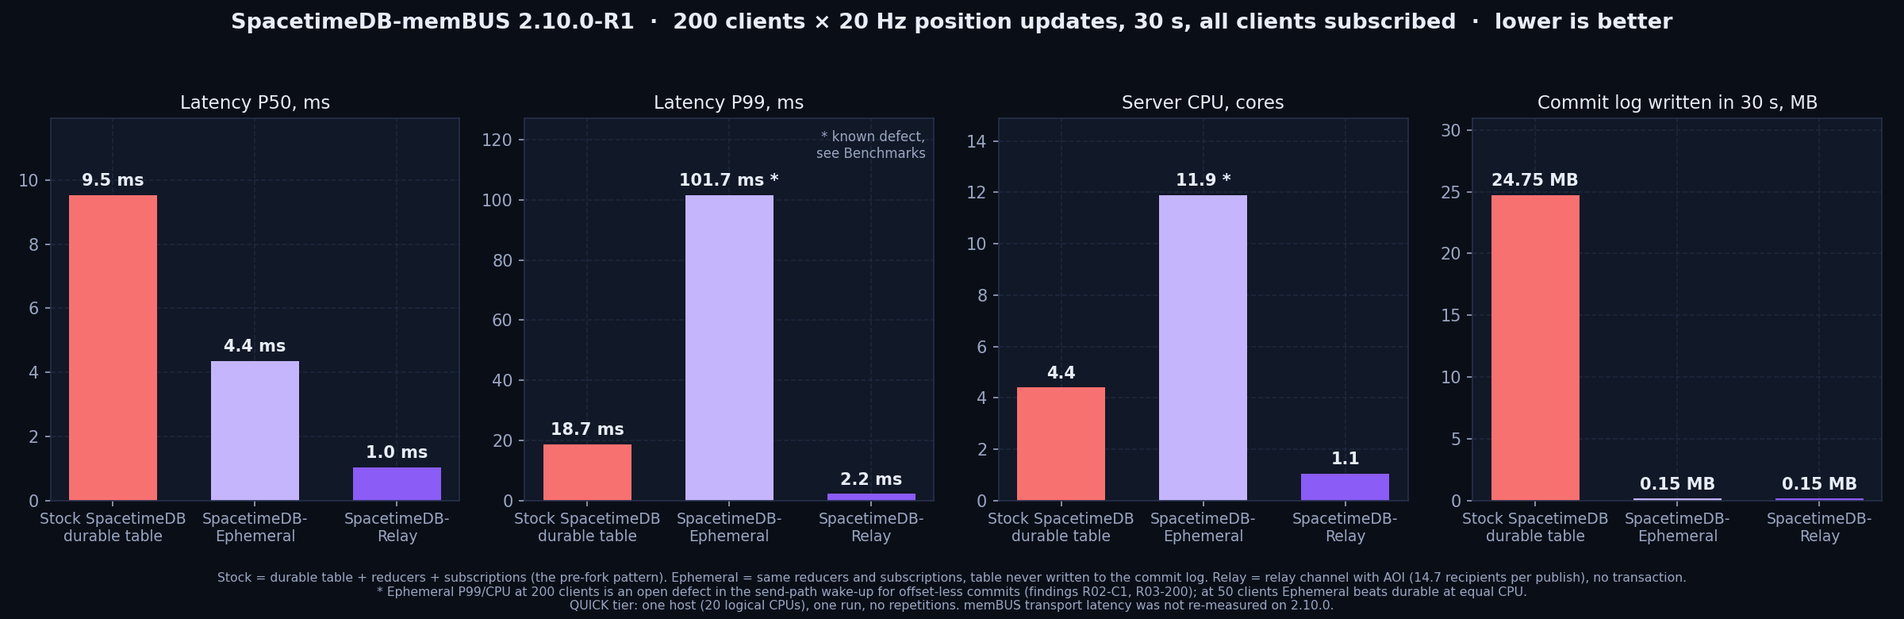
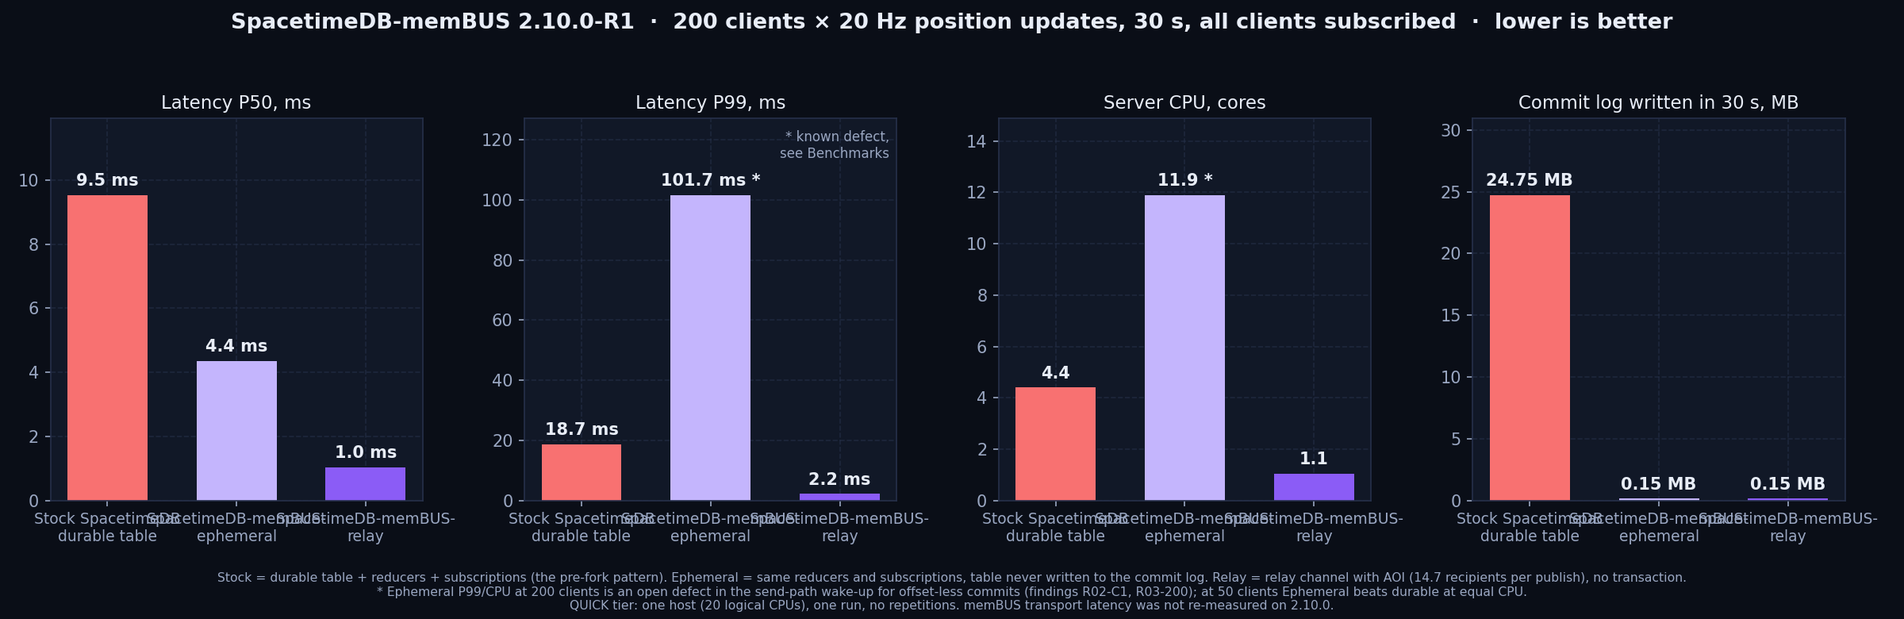
readmefix again

diff --git a/db-membus-release-history-chart.html b/db-membus-release-history-chart.html
@@ -801,7 +801,7 @@ html&gt;body{padding:0}&lt;/style&gt;
         &lt;g&gt;&lt;rect x=&quot;725&quot; y=&quot;257.5&quot; width=&quot;31&quot; height=&quot;140.5&quot; rx=&quot;4&quot; fill=&quot;#467fe8&quot;/&gt;&lt;rect x=&quot;759&quot; y=&quot;190.4&quot; width=&quot;31&quot; height=&quot;207.6&quot; rx=&quot;4&quot; fill=&quot;#9fc0ff&quot;/&gt;&lt;text x=&quot;740&quot; y=&quot;251&quot; text-anchor=&quot;middle&quot; class=&quot;value50&quot;&gt;.4084&lt;/text&gt;&lt;text x=&quot;774&quot; y=&quot;184&quot; text-anchor=&quot;middle&quot; class=&quot;value95&quot;&gt;.6036&lt;/text&gt;&lt;text x=&quot;757&quot; y=&quot;421&quot; text-anchor=&quot;middle&quot; class=&quot;label&quot;&gt;HTTP&lt;/text&gt;&lt;text x=&quot;757&quot; y=&quot;439&quot; text-anchor=&quot;middle&quot; class=&quot;small&quot;&gt;Build 12&lt;/text&gt;&lt;/g&gt;
         &lt;text x=&quot;448&quot; y=&quot;471&quot; text-anchor=&quot;middle&quot; class=&quot;small&quot;&gt;* R1 values are retained for history only; its timing boundary was not symmetric with R2-R6.&lt;/text&gt;
       &lt;/svg&gt;
-      &lt;div class=&quot;note warn&quot;&gt;&lt;b&gt;Read the history correctly:&lt;/b&gt; releases add correctness, authentication, recovery and operational controls, so latency is not expected to fall monotonically. R6 recovers performance with binary schema v2 and lower DB-MemBus-owned allocation/copy overhead while retaining R3-R5 guarantees. 2.10.0-R1 ports the transport unchanged to SpacetimeDB 2.10.0 and adds SpacetimeDB-Ephemeral and SpacetimeDB-Relay; its bars are not on this chart because memBUS transport latency was not re-measured on 2.10.0 — see the separate 2.10.0-R1 chart for the ephemeral/relay campaign.&lt;/div&gt;
+      &lt;div class=&quot;note warn&quot;&gt;&lt;b&gt;Read the history correctly:&lt;/b&gt; releases add correctness, authentication, recovery and operational controls, so latency is not expected to fall monotonically. R6 recovers performance with binary schema v2 and lower DB-MemBus-owned allocation/copy overhead while retaining R3-R5 guarantees. 2.10.0-R1 ports the transport unchanged to SpacetimeDB 2.10.0 and adds SpacetimeDB-memBUS-ephemeral and SpacetimeDB-memBUS-relay; its bars are not on this chart because memBUS transport latency was not re-measured on 2.10.0 — see the separate 2.10.0-R1 chart for the ephemeral/relay campaign.&lt;/div&gt;
     &lt;/div&gt;
   &lt;/div&gt;
   &lt;div class=&quot;timeline&quot;&gt;

diff --git a/documentation/db-membus-release-history-chart.html b/documentation/db-membus-release-history-chart.html
@@ -801,7 +801,7 @@ html&gt;body{padding:0}&lt;/style&gt;
         &lt;g&gt;&lt;rect x=&quot;725&quot; y=&quot;257.5&quot; width=&quot;31&quot; height=&quot;140.5&quot; rx=&quot;4&quot; fill=&quot;#467fe8&quot;/&gt;&lt;rect x=&quot;759&quot; y=&quot;190.4&quot; width=&quot;31&quot; height=&quot;207.6&quot; rx=&quot;4&quot; fill=&quot;#9fc0ff&quot;/&gt;&lt;text x=&quot;740&quot; y=&quot;251&quot; text-anchor=&quot;middle&quot; class=&quot;value50&quot;&gt;.4084&lt;/text&gt;&lt;text x=&quot;774&quot; y=&quot;184&quot; text-anchor=&quot;middle&quot; class=&quot;value95&quot;&gt;.6036&lt;/text&gt;&lt;text x=&quot;757&quot; y=&quot;421&quot; text-anchor=&quot;middle&quot; class=&quot;label&quot;&gt;HTTP&lt;/text&gt;&lt;text x=&quot;757&quot; y=&quot;439&quot; text-anchor=&quot;middle&quot; class=&quot;small&quot;&gt;Build 12&lt;/text&gt;&lt;/g&gt;
         &lt;text x=&quot;448&quot; y=&quot;471&quot; text-anchor=&quot;middle&quot; class=&quot;small&quot;&gt;* R1 values are retained for history only; its timing boundary was not symmetric with R2-R6.&lt;/text&gt;
       &lt;/svg&gt;
-      &lt;div class=&quot;note warn&quot;&gt;&lt;b&gt;Read the history correctly:&lt;/b&gt; releases add correctness, authentication, recovery and operational controls, so latency is not expected to fall monotonically. R6 recovers performance with binary schema v2 and lower DB-MemBus-owned allocation/copy overhead while retaining R3-R5 guarantees. 2.10.0-R1 ports the transport unchanged to SpacetimeDB 2.10.0 and adds SpacetimeDB-Ephemeral and SpacetimeDB-Relay; its bars are not on this chart because memBUS transport latency was not re-measured on 2.10.0 — see the separate 2.10.0-R1 chart for the ephemeral/relay campaign.&lt;/div&gt;
+      &lt;div class=&quot;note warn&quot;&gt;&lt;b&gt;Read the history correctly:&lt;/b&gt; releases add correctness, authentication, recovery and operational controls, so latency is not expected to fall monotonically. R6 recovers performance with binary schema v2 and lower DB-MemBus-owned allocation/copy overhead while retaining R3-R5 guarantees. 2.10.0-R1 ports the transport unchanged to SpacetimeDB 2.10.0 and adds SpacetimeDB-memBUS-ephemeral and SpacetimeDB-memBUS-relay; its bars are not on this chart because memBUS transport latency was not re-measured on 2.10.0 — see the separate 2.10.0-R1 chart for the ephemeral/relay campaign.&lt;/div&gt;
     &lt;/div&gt;
   &lt;/div&gt;
   &lt;div class=&quot;timeline&quot;&gt;

diff --git a/db-membus-2.10.0-r1-ephemeral-relay-chart.html b/db-membus-2.10.0-r1-ephemeral-relay-chart.html
@@ -33,7 +33,7 @@
     </div>
     <div class="meta"><div>Campaign: <b>September 9, 2026 · QUICK tier</b></div><div>One host (20 logical CPUs) · one run · <b>no repetitions</b></div></div>
   </header>
-  <div class="legend"><span><i class="sw" style="background:var(--stock)"></i>Stock SpacetimeDB (durable table, reducers, subscriptions)</span><span><i class="sw" style="background:var(--eph)"></i>SpacetimeDB-Ephemeral (same reducers, ephemeral table)</span><span><i class="sw" style="background:var(--relay)"></i>SpacetimeDB-Relay (relay channel with AOI)</span></div>
+  <div class="legend"><span><i class="sw" style="background:var(--stock)"></i>Stock SpacetimeDB (durable table, reducers, subscriptions)</span><span><i class="sw" style="background:var(--eph)"></i>SpacetimeDB-memBUS-ephemeral (same reducers, ephemeral table)</span><span><i class="sw" style="background:var(--relay)"></i>SpacetimeDB-memBUS-relay (relay channel with AOI)</span></div>
 
   <div class="grid">
     <section class="card"><h2>Latency P50, ms</h2>
@@ -63,7 +63,7 @@
   </div>
 
   <table>
-    <thead><tr><th></th><th>Stock SpacetimeDB<br>durable table, reducers, subscriptions</th><th>SpacetimeDB-Ephemeral<br>same reducers, ephemeral table</th><th>SpacetimeDB-Relay<br>relay channel with AOI</th></tr></thead>
+    <thead><tr><th></th><th>Stock SpacetimeDB<br>durable table, reducers, subscriptions</th><th>SpacetimeDB-memBUS-ephemeral<br>same reducers, ephemeral table</th><th>SpacetimeDB-memBUS-relay<br>relay channel with AOI</th></tr></thead>
     <tbody>
       <tr><td>Latency P50</td><td>9.5 ms</td><td>4.4 ms</td><td><b>1.0 ms</b></td></tr>
       <tr><td>Latency P99</td><td>18.7 ms</td><td>101.7 ms *</td><td><b>2.2 ms</b></td></tr>

diff --git a/documentation/db-membus-2.10.0-r1-ephemeral-relay-chart.html b/documentation/db-membus-2.10.0-r1-ephemeral-relay-chart.html
@@ -33,7 +33,7 @@
     </div>
     <div class="meta"><div>Campaign: <b>September 9, 2026 · QUICK tier</b></div><div>One host (20 logical CPUs) · one run · <b>no repetitions</b></div></div>
   </header>
-  <div class="legend"><span><i class="sw" style="background:var(--stock)"></i>Stock SpacetimeDB (durable table, reducers, subscriptions)</span><span><i class="sw" style="background:var(--eph)"></i>SpacetimeDB-Ephemeral (same reducers, ephemeral table)</span><span><i class="sw" style="background:var(--relay)"></i>SpacetimeDB-Relay (relay channel with AOI)</span></div>
+  <div class="legend"><span><i class="sw" style="background:var(--stock)"></i>Stock SpacetimeDB (durable table, reducers, subscriptions)</span><span><i class="sw" style="background:var(--eph)"></i>SpacetimeDB-memBUS-ephemeral (same reducers, ephemeral table)</span><span><i class="sw" style="background:var(--relay)"></i>SpacetimeDB-memBUS-relay (relay channel with AOI)</span></div>
 
   <div class="grid">
     <section class="card"><h2>Latency P50, ms</h2>
@@ -63,7 +63,7 @@
   </div>
 
   <table>
-    <thead><tr><th></th><th>Stock SpacetimeDB<br>durable table, reducers, subscriptions</th><th>SpacetimeDB-Ephemeral<br>same reducers, ephemeral table</th><th>SpacetimeDB-Relay<br>relay channel with AOI</th></tr></thead>
+    <thead><tr><th></th><th>Stock SpacetimeDB<br>durable table, reducers, subscriptions</th><th>SpacetimeDB-memBUS-ephemeral<br>same reducers, ephemeral table</th><th>SpacetimeDB-memBUS-relay<br>relay channel with AOI</th></tr></thead>
     <tbody>
       <tr><td>Latency P50</td><td>9.5 ms</td><td>4.4 ms</td><td><b>1.0 ms</b></td></tr>
       <tr><td>Latency P99</td><td>18.7 ms</td><td>101.7 ms *</td><td><b>2.2 ms</b></td></tr>

diff --git a/README.MD b/README.MD
@@ -4,13 +4,13 @@
 
 | Component | What it is | Short name used in this repository |
 |---|---|---|
-| **SpacetimeDB-memBUS** | authenticated Windows shared-memory transport for approved reducer calls between independent SpacetimeDB processes on one machine (the original product, R1–R6) | *memBUS* |
-| **SpacetimeDB-Ephemeral** | *ephemeral tables*: a table attribute that keeps rows in server RAM with full transactions, indexes and subscriptions but **never writes them to the commit log**; empty after a restart by contract; durable → ephemeral migration of an existing table by a normal publish | *Ephemeral* |
-| **SpacetimeDB-Relay** | *relay channel*: a non-transactional broadcast lane on the existing client WebSocket with named channels, area-of-interest (AOI) fan-out, per-connection rate limits and an optional server-side bridge reducer; **0 bytes of durability per message** | *Relay* |
+| **SpacetimeDB-memBUS** | authenticated Windows shared-memory transport for approved reducer calls between independent SpacetimeDB processes on one machine (the original product, R1–R6) | *memBUS* (transport) |
+| **SpacetimeDB-memBUS-ephemeral** | *ephemeral tables*: a table attribute that keeps rows in server RAM with full transactions, indexes and subscriptions but **never writes them to the commit log**; empty after a restart by contract; durable → ephemeral migration of an existing table by a normal publish | *memBUS-ephemeral* |
+| **SpacetimeDB-memBUS-relay** | *relay channel*: a non-transactional broadcast lane on the existing client WebSocket with named channels, area-of-interest (AOI) fan-out, per-connection rate limits and an optional server-side bridge reducer; **0 bytes of durability per message** | *memBUS-relay* |
 
-Ephemeral and Relay do not need memBUS. The `2.10.0-R1` package contains the full product build (all three) and a relay-only build (Ephemeral + Relay on a single database process).
+memBUS-ephemeral and memBUS-relay do not need the memBUS transport. The `2.10.0-R1` package contains the full product build (all three) and a relay-only build (Ephemeral + Relay on a single database process).
 
-**Scope of memBUS: databases on the same machine only.** memBUS connects independent SpacetimeDB processes that run on one Windows host, in the same interactive logon session, through named shared memory. It is not a network transport, has no listener, and never falls back to HTTP, TCP or named pipes. Databases on different machines are out of scope by design. Ephemeral and Relay are per-process features and have no such placement requirement.
+**Scope of memBUS: databases on the same machine only.** memBUS connects independent SpacetimeDB processes that run on one Windows host, in the same interactive logon session, through named shared memory. It is not a network transport, has no listener, and never falls back to HTTP, TCP or named pipes. Databases on different machines are out of scope by design. memBUS-ephemeral and memBUS-relay are per-process features and have no such placement requirement.
 
 > [!WARNING]
 > **2026-09-09 — 2.10.0-R1 is a Windows x64 test candidate on SpacetimeDB v2.10.0.** It has passed automated clean-package verification (two-process committed memBUS calls, relay/ephemeral end-to-end checks, restart contract, graceful shutdown). Project-lead testing, the six-hour soak and final release acceptance remain pending. It is not production-ready.
@@ -23,9 +23,9 @@ Ephemeral and Relay do not need memBUS. The `2.10.0-R1` package contains the ful
 
 Workload: 200 clients, each sending a position update at 20 Hz for 30 s, every client subscribed to all the others. One host, 20 logical CPUs, one run (QUICK tier: regression evidence, not a guarantee).
 
-![Stock SpacetimeDB vs SpacetimeDB-Ephemeral vs SpacetimeDB-Relay](documentation/assets/spacetimedb-membus-2.10.0-r1-ephemeral-relay.png)
+![Stock SpacetimeDB vs SpacetimeDB-memBUS-ephemeral vs SpacetimeDB-memBUS-relay](documentation/assets/spacetimedb-membus-2.10.0-r1-ephemeral-relay.png)
 
-| | Stock SpacetimeDB<br>(durable table, reducers, subscriptions) | SpacetimeDB-Ephemeral<br>(same reducers, ephemeral table) | SpacetimeDB-Relay<br>(relay channel with AOI) |
+| | Stock SpacetimeDB<br>(durable table, reducers, subscriptions) | SpacetimeDB-memBUS-ephemeral<br>(same reducers, ephemeral table) | SpacetimeDB-memBUS-relay<br>(relay channel with AOI) |
 |---|---:|---:|---:|
 | Latency P50 | 9.5 ms | 4.4 ms | **1.0 ms** |
 | Latency P99 | 18.7 ms | 101.7 ms * | **2.2 ms** |
@@ -55,11 +55,11 @@ SpacetimeDB-memBUS was created for **my MMORPG project**, which uses colocated d
 
 ## The three components in one paragraph each
 
-**memBUS.** An approved source procedure calls a configured local route; the destination reducer runs through the normal SpacetimeDB `ModuleHost`, transaction, durability and subscription path; the source receives a correlated commit-aware acknowledgement or an explicit uncertainty. Participants, route, schema and destination operation must all be approved. No arbitrary reducer gateway, no HTTP/TCP/named-pipe fallback.
+**memBUS (transport).** An approved source procedure calls a configured local route; the destination reducer runs through the normal SpacetimeDB `ModuleHost`, transaction, durability and subscription path; the source receives a correlated commit-aware acknowledgement or an explicit uncertainty. Participants, route, schema and destination operation must all be approved. No arbitrary reducer gateway, no HTTP/TCP/named-pipe fallback.
 
-**Ephemeral.** `#[table(..., ephemeral)]` (Rust) or `[Table(..., Ephemeral = true)]` (C#). Rows are inserted, updated, deleted, indexed, queried and pushed to subscribers exactly like any table, but a transaction that touches only ephemeral tables consumes no commit-log offset and is never appended; a mixed transaction persists only its durable rows. After a restart the table exists and is empty. Event and scheduled tables cannot be ephemeral. Marking an existing durable table `ephemeral` in a later publish is accepted as an automatic migration (rows cleared, flag flipped inside the publish transaction); the reverse is rejected.
+**memBUS-ephemeral.** `#[table(..., ephemeral)]` (Rust) or `[Table(..., Ephemeral = true)]` (C#). Rows are inserted, updated, deleted, indexed, queried and pushed to subscribers exactly like any table, but a transaction that touches only ephemeral tables consumes no commit-log offset and is never appended; a mixed transaction persists only its durable rows. After a restart the table exists and is empty. Event and scheduled tables cannot be ephemeral. Marking an existing durable table `ephemeral` in a later publish is accepted as an automatic migration (rows cleared, flag flipped inside the publish transaction); the reverse is rejected.
 
-**Relay.** A client subscribes to a channel with an AOI position, publishes opaque payloads, and receives `Deliver`, `Enter`, `Leave`, `SubscribeApplied` and `Error` messages on the same socket. The server keeps membership in a grid per channel, fans out to neighbouring cells, thins crowded cells, enforces payload/rate/channel limits, and optionally calls a **bridge reducer** once per interval with the last payload per sender so the module can mirror relay state into an (ephemeral) table. Wire messages are appended after the upstream protocol variants, so stock clients keep working and a stock SDK simply never sees relay frames.
+**memBUS-relay.** A client subscribes to a channel with an AOI position, publishes opaque payloads, and receives `Deliver`, `Enter`, `Leave`, `SubscribeApplied` and `Error` messages on the same socket. The server keeps membership in a grid per channel, fans out to neighbouring cells, thins crowded cells, enforces payload/rate/channel limits, and optionally calls a **bridge reducer** once per interval with the last payload per sender so the module can mirror relay state into an (ephemeral) table. Wire messages are appended after the upstream protocol variants, so stock clients keep working and a stock SDK simply never sees relay frames.
 
 ## Release package quick start
 
@@ -110,7 +110,7 @@ A single-process Ephemeral + Relay endpoint without memBUS: `.\relay-only\Start-
 
 - **R1–R6 (SpacetimeDB 2.6.1):** shared-memory proof of concept → matched measurement → authenticated routes → bounded uncertainty and recovery → multi-route operations → compact operations (see the history chart).
 - **2.8.3 port:** lane diagnosis, `fast`/`full-safety` channel profiles, database-to-database comparator (private evidence).
-- **2.10.0-R1:** port to SpacetimeDB v2.10.0 plus **SpacetimeDB-Ephemeral** and **SpacetimeDB-Relay**.
+- **2.10.0-R1:** port to SpacetimeDB v2.10.0 plus **SpacetimeDB-memBUS-ephemeral** and **SpacetimeDB-memBUS-relay**.
 
 ## Remaining acceptance work
 

diff --git a/CHANGELOG.md b/CHANGELOG.md
@@ -2,11 +2,11 @@
 
 ## 2.10.0-R1 candidate — 2026-09-09
 
-Candidate Windows x64 binary distribution based on SpacetimeDB v2.10.0. **SpacetimeDB-memBUS now names one fork build with three components: SpacetimeDB-memBUS (shared-memory transport), SpacetimeDB-Ephemeral (ephemeral tables) and SpacetimeDB-Relay (relay channel).**
+Candidate Windows x64 binary distribution based on SpacetimeDB v2.10.0. **SpacetimeDB-memBUS now names one fork build with three components: SpacetimeDB-memBUS (shared-memory transport), SpacetimeDB-memBUS-ephemeral (ephemeral tables) and SpacetimeDB-memBUS-relay (relay channel).**
 
 - Ported the memBUS transport (topology v5, `fast`/`full-safety` channel profiles, binary operation schema v2) to SpacetimeDB 2.10.0; explicit `--jwt-pub-key-path`/`--jwt-priv-key-path` are now mandatory, so the package generates a session P-256 key pair per start and ships none.
-- Added SpacetimeDB-Ephemeral: table attribute `ephemeral` (Rust, C#, shared codegen for TypeScript); rows transactional, indexed and subscribed but never appended to the commit log; ephemeral-only transactions take no offset; empty after restart; validator rejects event/scheduled tables; system table `st_ephemeral_table`; automatic durable → ephemeral migration of an existing table (rows cleared inside the publish transaction), ephemeral → durable rejected.
-- Added SpacetimeDB-Relay: relay channel on the client WebSocket (v1/v2 protocol variants appended after the upstream ones), named channels with wildcard entries, `authenticated`/`anyone` access, AOI grid membership with enter/leave, crowd thinning, per-connection payload/rate/channel bounds, typed `RelayError` codes, optional bridge reducer called once per interval with the last payload per sender; mandatory `--membus-relay-config`; relay-only standalone build without the shared-memory transport.
+- Added SpacetimeDB-memBUS-ephemeral: table attribute `ephemeral` (Rust, C#, shared codegen for TypeScript); rows transactional, indexed and subscribed but never appended to the commit log; ephemeral-only transactions take no offset; empty after restart; validator rejects event/scheduled tables; system table `st_ephemeral_table`; automatic durable → ephemeral migration of an existing table (rows cleared inside the publish transaction), ephemeral → durable rejected.
+- Added SpacetimeDB-memBUS-relay: relay channel on the client WebSocket (v1/v2 protocol variants appended after the upstream ones), named channels with wildcard entries, `authenticated`/`anyone` access, AOI grid membership with enter/leave, crowd thinning, per-connection payload/rate/channel bounds, typed `RelayError` codes, optional bridge reducer called once per interval with the last payload per sender; mandatory `--membus-relay-config`; relay-only standalone build without the shared-memory transport.
 - Package: full product `alpha`/`beta` binaries, `relay-only` binary, stock 2.10.0 CLI, `membus-security`, `membus-relay-smoke` reference client, accepted seeds, relay/ephemeral demo module, `Run-MemBus-Test.ps1` (3 committed calls), `Run-Relay-Test.ps1` (17 CHECK assertions incl. two commit-log size proofs), `Run-Ephemeral-Restart-Test.ps1` (restart contract), `relay-only\Start-RelayOnly.ps1`, session JWT key generator, package-relative start/stop/reset/integrity scripts, checksums, manifest.
 - Benchmarks: new QUICK-tier ephemeral/relay campaign (2026-09-09): 200 clients × 20 Hz via relay + AOI = 58,744 deliveries/s at 1.04/2.21 ms P50/P99 on ~1 core and 0 B commit log, vs reducers + subscriptions 4.36/101.7 ms (ephemeral, 0 B) and 9.54/18.7 ms (durable, 24.75 MB per 30 s ≈ 71 GB/day); new chart `db-membus-2.10.0-r1-ephemeral-relay-chart.html` + PNG; history chart gains the 2.10.0-R1 stage. memBUS transport latency was **not** re-measured on 2.10.0; R6 Build 12 remains the last accepted transport checkpoint and is not attributed to these binaries.
 - Documentation: repository README leads with the three-component statement; new pages `ephemeral-tables.md` and `relay-channel.md`; getting-started, commands, configuration, architecture, protocol, operations, troubleshooting, benchmarks, upgrade guide, licensing (2.10.0 licence text, change date 2031-09-03), MMORPG use case, notices, security and support updated.
@@ -15,7 +15,7 @@ Candidate Windows x64 binary distribution based on SpacetimeDB v2.10.0. **Spacet
 - Fixed during assembly (fork ChangeLog 0.0.0.112): a peer that exited gracefully (Ctrl+C) left the surviving endpoint holding stale route handles, so the restarted peer could never re-create its named objects (
 amed event ... already exists) and every call stayed NotPublished:RouteNotReady. A peer-signaled route shutdown now enters the same bounded recovery as a crash; verified for a restarted source and a restarted destination (committed again 1 s after the restart).
 - Clean-extraction acceptance (headless, packaging\Test-CleanExtraction-2.10.0-R1.ps1, log packaging\acceptance-2.10.0-R1-20260909.log): integrity 44/44; Run-MemBus-Test 3/3 committed; Run-Relay-Test 17/17 CHECK, commit log unchanged (28,963,952 B before/after); Run-Ephemeral-Restart-Test durable 1 row / ephemeral 0 rows after restart; memBUS 2/2 after the alpha restart; relay-only endpoint 17/17 CHECK and restart contract PASS; graceful stop; reset leaves no generated state.
[2 lines of base64/hex data omitted]
 
 ## 2.6.1-R6 visible MEMBUS logging correction — 2026-07-16
 

diff --git a/documentation/architecture.md b/documentation/architecture.md
@@ -6,7 +6,7 @@ SpacetimeDB-memBUS is one fork build of SpacetimeDB with three independent compo
                          ┌─────────────────────────── one database process ───────────────────────────┐
 clients (WebSocket) ───► │ client API ── subscriptions ── ModuleHost/reducers ── datastore ── commit log │
                          │      │                              ▲                     │                  │
-                         │      │  SpacetimeDB-Relay           │ bridge reducer      │ SpacetimeDB-Ephemeral
+                         │      │  memBUS-relay                │ bridge reducer      │ memBUS-ephemeral
                          │      └─ channel hub, AOI grid ──────┘ (per interval)      └─ rows flagged ephemeral:
                          │         rate limits, fan-out                                 transactional + subscribed,
                          │         (never a transaction)                                never appended
@@ -19,7 +19,7 @@ clients (WebSocket) ───► │ client API ── subscriptions ── Modu
                          └────────────────────────────────────────────────────────────────────────────┘
 ```
 
-## memBUS
+## memBUS (transport)
 
 ```text
 source database process
@@ -31,11 +31,11 @@ source database process
 
 Each process keeps its own database, memory, transactions, WASM runtime, durability state and lifecycle. Shared memory transports bounded message data only; it never exposes another process's tables, pointers or transaction objects.
 
-## Ephemeral
+## memBUS-ephemeral (ephemeral tables)
 
 The datastore marks a table ephemeral from the module definition (a dedicated definition section, a system table `st_ephemeral_table`, and an in-memory set consulted on every commit). Rows flow through the ordinary transaction, index and subscription machinery. The one difference is at the durability boundary: entries of ephemeral tables are excluded from what the commit log receives, a transaction that touched only ephemeral tables takes no offset, and replay restores the schema but no rows.
 
-## Relay
+## memBUS-relay (relay channel)
 
 The relay hub lives in the client-connection layer. It owns channel membership (a grid per channel), the per-connection token bucket, the AOI fan-out and crowd thinning, and the optional bridge that calls a module reducer once per interval through the public `ModuleHost` call path with the database identity as caller. Relay frames are pushed onto a connection's outgoing queue with the existing bounded non-transactional send; they never enter the transaction broadcast queue.
 

diff --git a/documentation/licensing.md b/documentation/licensing.md
@@ -6,7 +6,7 @@ SpacetimeDB-memBUS 2.10.0-R1 is based on SpacetimeDB 2.10.0. The upstream work i
 
 The SpacetimeDB 2.10.0 Additional Use Grant permits use when an application or service uses no more than **one SpacetimeDB instance in production** and is not used for a Database Service as defined by that licence.
 
-SpacetimeDB-memBUS (the transport) intentionally connects multiple independent server processes on one machine. That topology is outside the one-production-instance grant unless another right applies. SpacetimeDB-Ephemeral and SpacetimeDB-Relay are per-process features; running them on a single production instance does not by itself leave the grant, but the rest of your deployment must still comply. Before production use, obtain a commercial licence or another applicable written arrangement from Clockwork Laboratories. Local execution or public download does not grant additional production rights.
+SpacetimeDB-memBUS (the transport) intentionally connects multiple independent server processes on one machine. That topology is outside the one-production-instance grant unless another right applies. SpacetimeDB-memBUS-ephemeral and SpacetimeDB-memBUS-relay are per-process features; running them on a single production instance does not by itself leave the grant, but the rest of your deployment must still comply. Before production use, obtain a commercial licence or another applicable written arrangement from Clockwork Laboratories. Local execution or public download does not grant additional production rights.
 
 ## Required reading
 

diff --git a/documentation/README.md b/documentation/README.md
@@ -1,6 +1,6 @@
 # SpacetimeDB-memBUS public documentation
 
-**Current candidate:** `2.10.0-R1`, Windows x64, SpacetimeDB v2.10.0 — one fork build with three components: **SpacetimeDB-memBUS** (shared-memory transport), **SpacetimeDB-Ephemeral** (ephemeral tables) and **SpacetimeDB-Relay** (relay channel). Automated clean-package verification has passed; project-lead testing, final acceptance and the six-hour soak remain pending.
+**Current candidate:** `2.10.0-R1`, Windows x64, SpacetimeDB v2.10.0 — one fork build with three components: **SpacetimeDB-memBUS** (shared-memory transport), **SpacetimeDB-memBUS-ephemeral** (ephemeral tables) and **SpacetimeDB-memBUS-relay** (relay channel). Automated clean-package verification has passed; project-lead testing, final acceptance and the six-hour soak remain pending.
 
 - [Getting started](getting-started.md) — package verification, start, the three tests, stop and reset.
 - [Architecture](architecture.md) — process boundaries and what each component owns.

diff --git a/documentation/relay-channel.md b/documentation/relay-channel.md
@@ -1,4 +1,4 @@
-# SpacetimeDB-Relay — relay channel
+# SpacetimeDB-memBUS-relay — relay channel
 
 The **relay channel** is a non-transactional broadcast lane on the client WebSocket a SpacetimeDB client already holds. A client joins a named channel at an area-of-interest (AOI) position, publishes small opaque payloads, and receives the payloads of its neighbours. Nothing on this lane is a transaction, a table row or a commit-log record. It exists for presentation traffic that must be frequent and cheap — movement, rotation, casts, emotes — while authority stays with reducers.
 

diff --git a/documentation/ephemeral-tables.md b/documentation/ephemeral-tables.md
@@ -1,4 +1,4 @@
-# SpacetimeDB-Ephemeral — ephemeral tables
+# SpacetimeDB-memBUS-ephemeral — ephemeral tables
 
 An **ephemeral table** is a normal SpacetimeDB table whose rows are never written to the commit log. It is the right shape for state that is *live by definition* — presence, movement segments, animation state, casts in flight, combat events, AI motion, targets — where the durable truth lives elsewhere (a checkpoint table, a persistence database) or is simply recreated after a restart.
 
